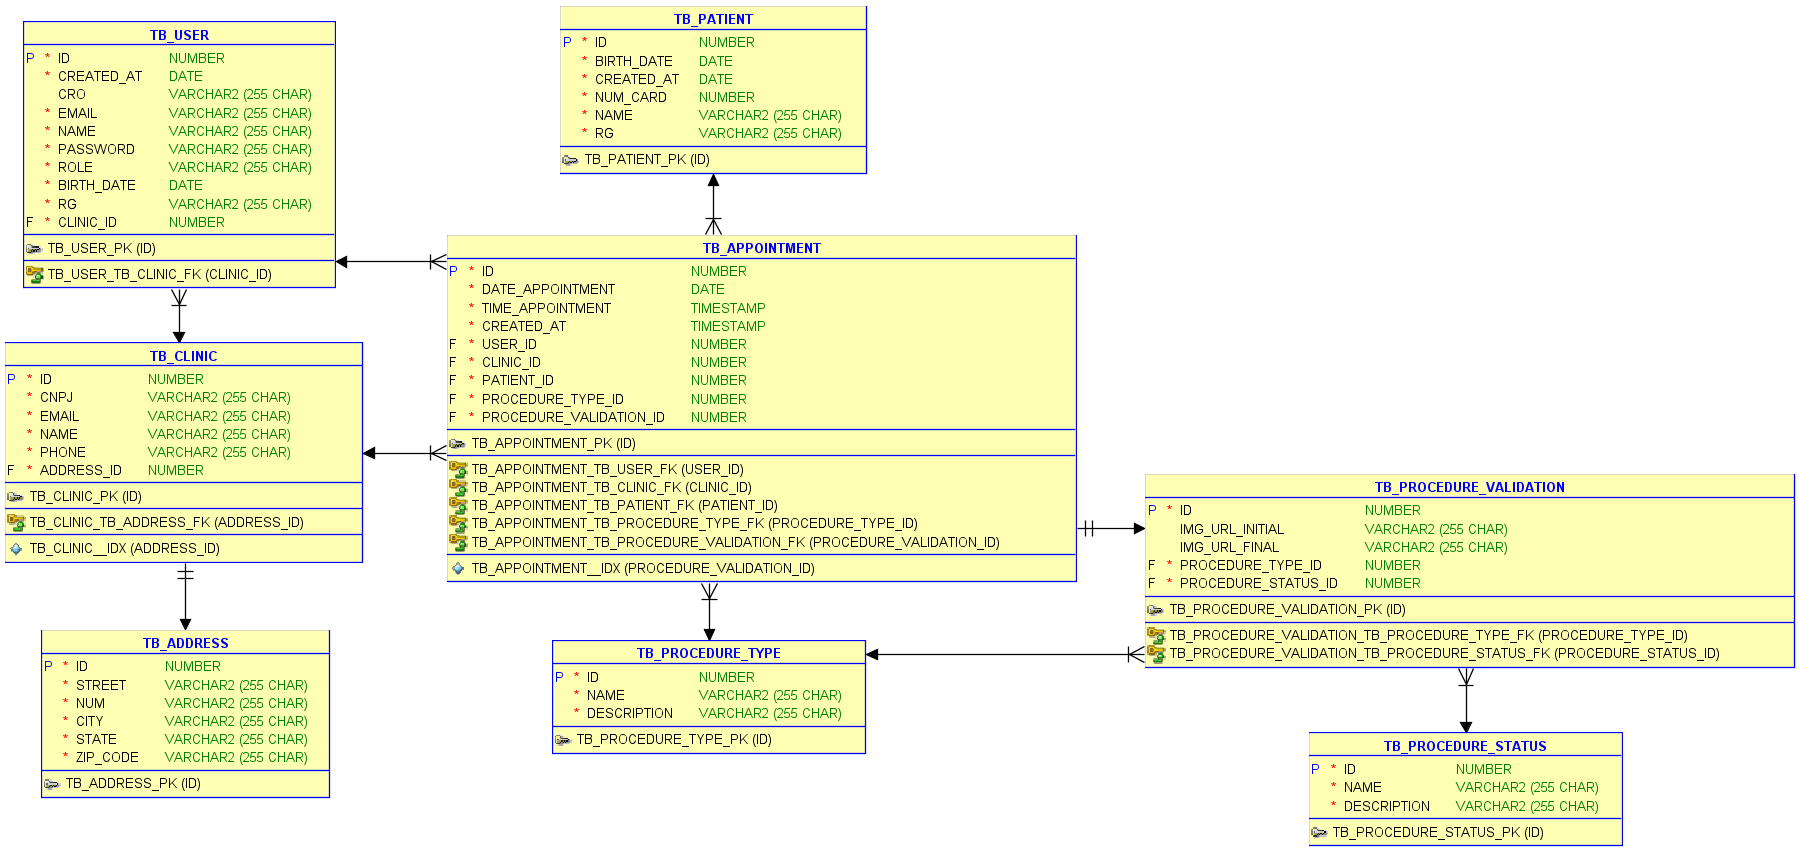
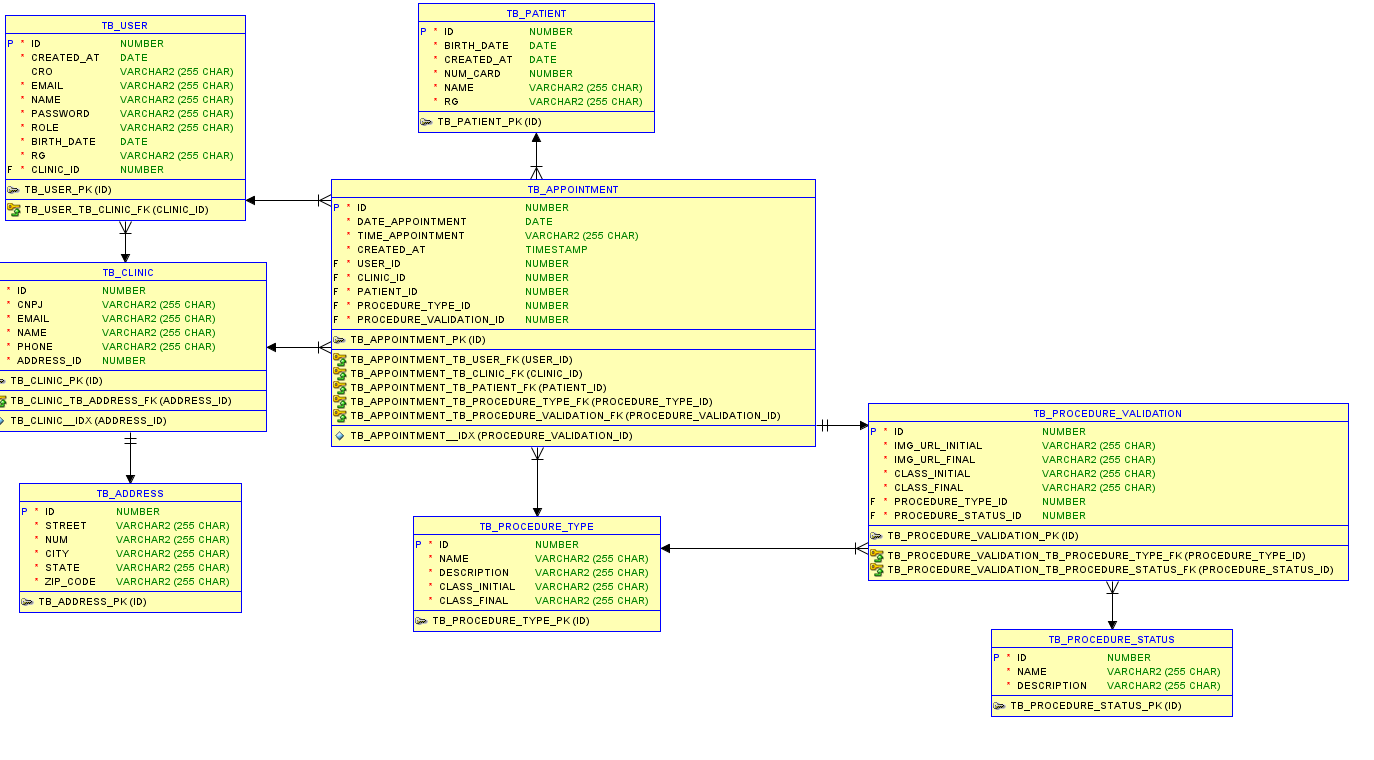
updating project

Changed region(s): [[0.0, 0.0, 1.0, 0.9987]]

diff --git a/odonto-prev/src/main/java/com/challenge/odonto_prev/domain/ProcedureValidation.java b/odonto-prev/src/main/java/com/challenge/odonto_prev/domain/ProcedureValidation.java
@@ -1,6 +1,7 @@
 package com.challenge.odonto_prev.domain;
 
 import com.challenge.odonto_prev.domain.dto.ProcedureValidationDTO;
+import com.challenge.odonto_prev.enums.ClassDetected;
 import jakarta.persistence.*;
 import lombok.AllArgsConstructor;
 import lombok.Data;
@@ -18,6 +19,11 @@ public class ProcedureValidation {
     private String imgUrlInitial;
     private String imgUrlFinal;
 
+    @Enumerated(EnumType.STRING)
+    private ClassDetected classInitial;
+    @Enumerated(EnumType.STRING)
+    private ClassDetected classFinal;
+
     @OneToOne(mappedBy = "procedureValidation")
     private Appointment appointment;
     @ManyToOne
@@ -29,6 +35,8 @@ public class ProcedureValidation {
         this.id = procedureValidationDTO.getId();
         this.imgUrlInitial = procedureValidationDTO.getImgUrlInitial();
         this.imgUrlFinal = procedureValidationDTO.getImgUrlFinal();
+        this.classInitial = procedureValidationDTO.getClassInitial();
+        this.classFinal = procedureValidationDTO.getClassFinal();
     }
 
     public ProcedureValidation(ProcedureValidation procedureValidation) {
@@ -38,5 +46,7 @@ public class ProcedureValidation {
         this.appointment = procedureValidation.getAppointment();
         this.procedureType = procedureValidation.getProcedureType();
         this.procedureStatus = procedureValidation.getProcedureStatus();
+        this.classInitial = procedureValidation.getClassInitial();
+        this.classFinal = procedureValidation.getClassFinal();
     }
 }

diff --git a/odonto-prev/src/main/java/com/challenge/odonto_prev/domain/dto/ProcedureValidationDTO.java b/odonto-prev/src/main/java/com/challenge/odonto_prev/domain/dto/ProcedureValidationDTO.java
@@ -1,6 +1,7 @@
 package com.challenge.odonto_prev.domain.dto;
 
 import com.challenge.odonto_prev.domain.ProcedureValidation;
+import com.challenge.odonto_prev.enums.ClassDetected;
 import lombok.AllArgsConstructor;
 import lombok.Data;
 import lombok.NoArgsConstructor;
@@ -15,6 +16,8 @@ public class ProcedureValidationDTO extends RepresentationModel<ProcedureValidat
     private String imgUrlFinal;
     private ProcedureTypeDTO procedureType;
     private ProcedureStatusDTO procedureStatus;
+    private ClassDetected classInitial;
+    private ClassDetected classFinal;
 
     public ProcedureValidationDTO(ProcedureValidation procedureValidation) {
         this.id = procedureValidation.getId();
@@ -22,5 +25,7 @@ public class ProcedureValidationDTO extends RepresentationModel<ProcedureValidat
         this.imgUrlFinal = procedureValidation.getImgUrlFinal();
         this.procedureType = new ProcedureTypeDTO(procedureValidation.getProcedureType());
         this.procedureStatus = new ProcedureStatusDTO(procedureValidation.getProcedureStatus());
+        this.classInitial = procedureValidation.getClassInitial();
+        this.classFinal = procedureValidation.getClassFinal();
     }
 }

diff --git a/odonto-prev/src/main/java/com/challenge/odonto_prev/domain/ProcedureType.java b/odonto-prev/src/main/java/com/challenge/odonto_prev/domain/ProcedureType.java
@@ -1,6 +1,7 @@
 package com.challenge.odonto_prev.domain;
 
 import com.challenge.odonto_prev.domain.dto.ProcedureTypeDTO;
+import com.challenge.odonto_prev.enums.ClassDetected;
 import jakarta.persistence.*;
 import lombok.AllArgsConstructor;
 import lombok.Data;
@@ -8,9 +9,9 @@ import lombok.NoArgsConstructor;
 
 import java.util.List;
 
+@Data
 @AllArgsConstructor
 @NoArgsConstructor
-@Data
 @Entity
 @Table(name = "tb_procedure_type")
 public class ProcedureType {
@@ -19,6 +20,11 @@ public class ProcedureType {
     private Long id;
     private String name;
     private String description;
+
+    @Enumerated(EnumType.STRING)
+    private ClassDetected classInitial;
+    @Enumerated(EnumType.STRING)
+    private ClassDetected classFinal;
 
     @OneToMany(mappedBy = "procedureType")
     private List<Appointment> appointments;
@@ -29,5 +35,7 @@ public class ProcedureType {
         this.id = procedureTypeDTO.getId();
         this.name = procedureTypeDTO.getName();
         this.description = procedureTypeDTO.getDescription();
+        this.classInitial = procedureTypeDTO.getClassInitial();
+        this.classFinal = procedureTypeDTO.getClassFinal();
     }
 }

diff --git a/odonto-prev/src/main/java/com/challenge/odonto_prev/domain/dto/ProcedureTypeDTO.java b/odonto-prev/src/main/java/com/challenge/odonto_prev/domain/dto/ProcedureTypeDTO.java
@@ -1,13 +1,13 @@
 package com.challenge.odonto_prev.domain.dto;
 
 import com.challenge.odonto_prev.domain.ProcedureType;
+import com.challenge.odonto_prev.enums.ClassDetected;
 import jakarta.validation.constraints.NotBlank;
-import lombok.AllArgsConstructor;
-import lombok.Data;
-import lombok.NoArgsConstructor;
+import lombok.*;
 import org.springframework.hateoas.RepresentationModel;
 
-@Data
+@Getter
+@Setter
 @AllArgsConstructor
 @NoArgsConstructor
 public class ProcedureTypeDTO extends RepresentationModel<ProcedureTypeDTO> {
@@ -16,10 +16,14 @@ public class ProcedureTypeDTO extends RepresentationModel<ProcedureTypeDTO> {
     private String name;
     @NotBlank
     private String description;
+    private ClassDetected classInitial;
+    private ClassDetected classFinal;
 
     public ProcedureTypeDTO(ProcedureType procedureType) {
         this.id = procedureType.getId();
         this.name = procedureType.getName();
         this.description = procedureType.getDescription();
+        this.classInitial = procedureType.getClassInitial();
+        this.classFinal = procedureType.getClassFinal();
     }
 }

diff --git a/odonto-prev/src/main/java/com/challenge/odonto_prev/services/ProcedureValidationService.java b/odonto-prev/src/main/java/com/challenge/odonto_prev/services/ProcedureValidationService.java
@@ -29,7 +29,7 @@ public class ProcedureValidationService {
         ProcedureValidation procedureValidation = new ProcedureValidation(procedureValidationDTO);
 
         procedureValidation.setProcedureStatus(new ProcedureStatus(
-                procedureStatusService.findByName("Agendada")
+                procedureStatusService.findByName("Em Análise de Validação")
         ));
 
         procedureValidation.setProcedureType(new ProcedureType(

diff --git a/odonto-prev/src/main/java/com/challenge/odonto_prev/enums/ClassDetected.java b/odonto-prev/src/main/java/com/challenge/odonto_prev/enums/ClassDetected.java
@@ -1,0 +1,12 @@
+package com.challenge.odonto_prev.enums;
+
+public enum ClassDetected {
+    SEM_APARELHO("SEM_APARELHO"),
+    APARELHO("APARELHO");
+
+    private final String role;
+
+    ClassDetected(String role) {
+        this.role = role;
+    }
+}
